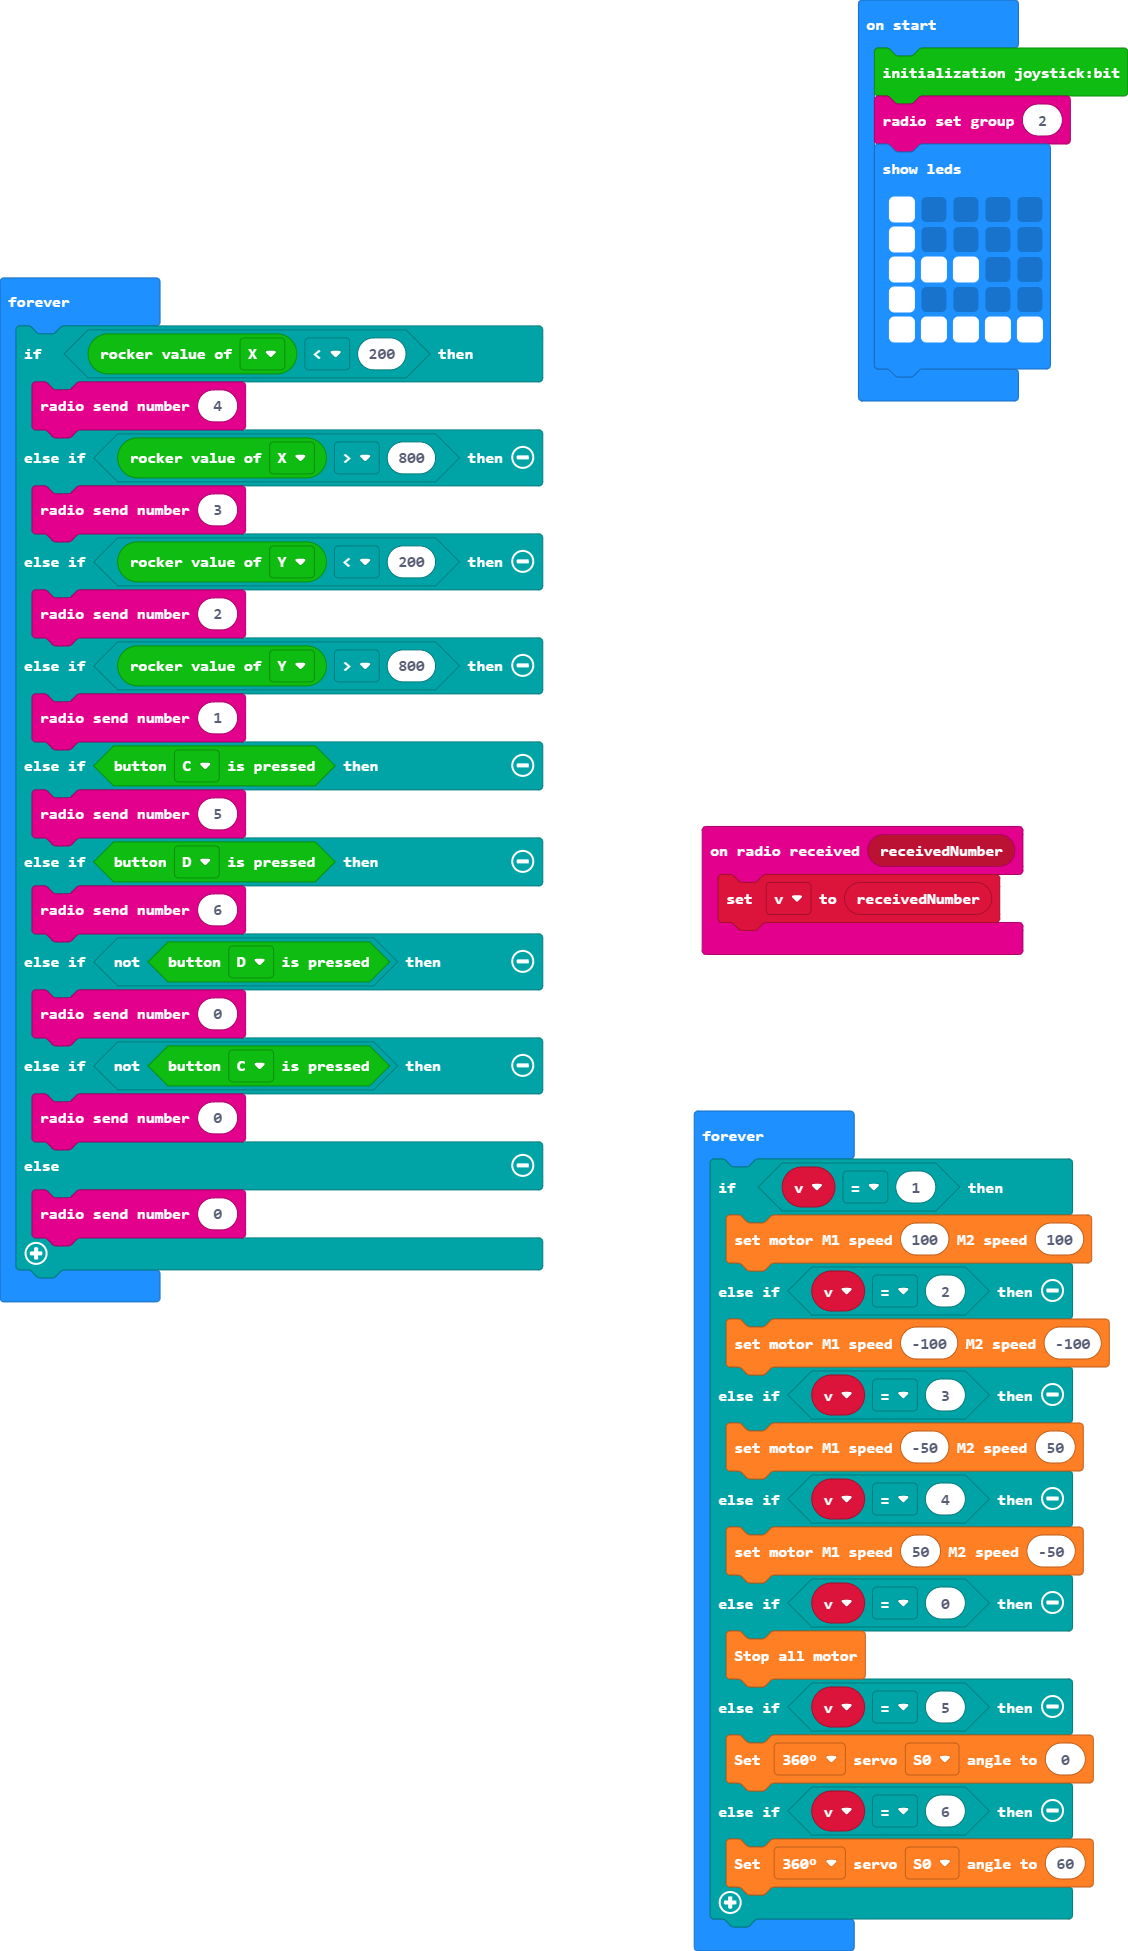
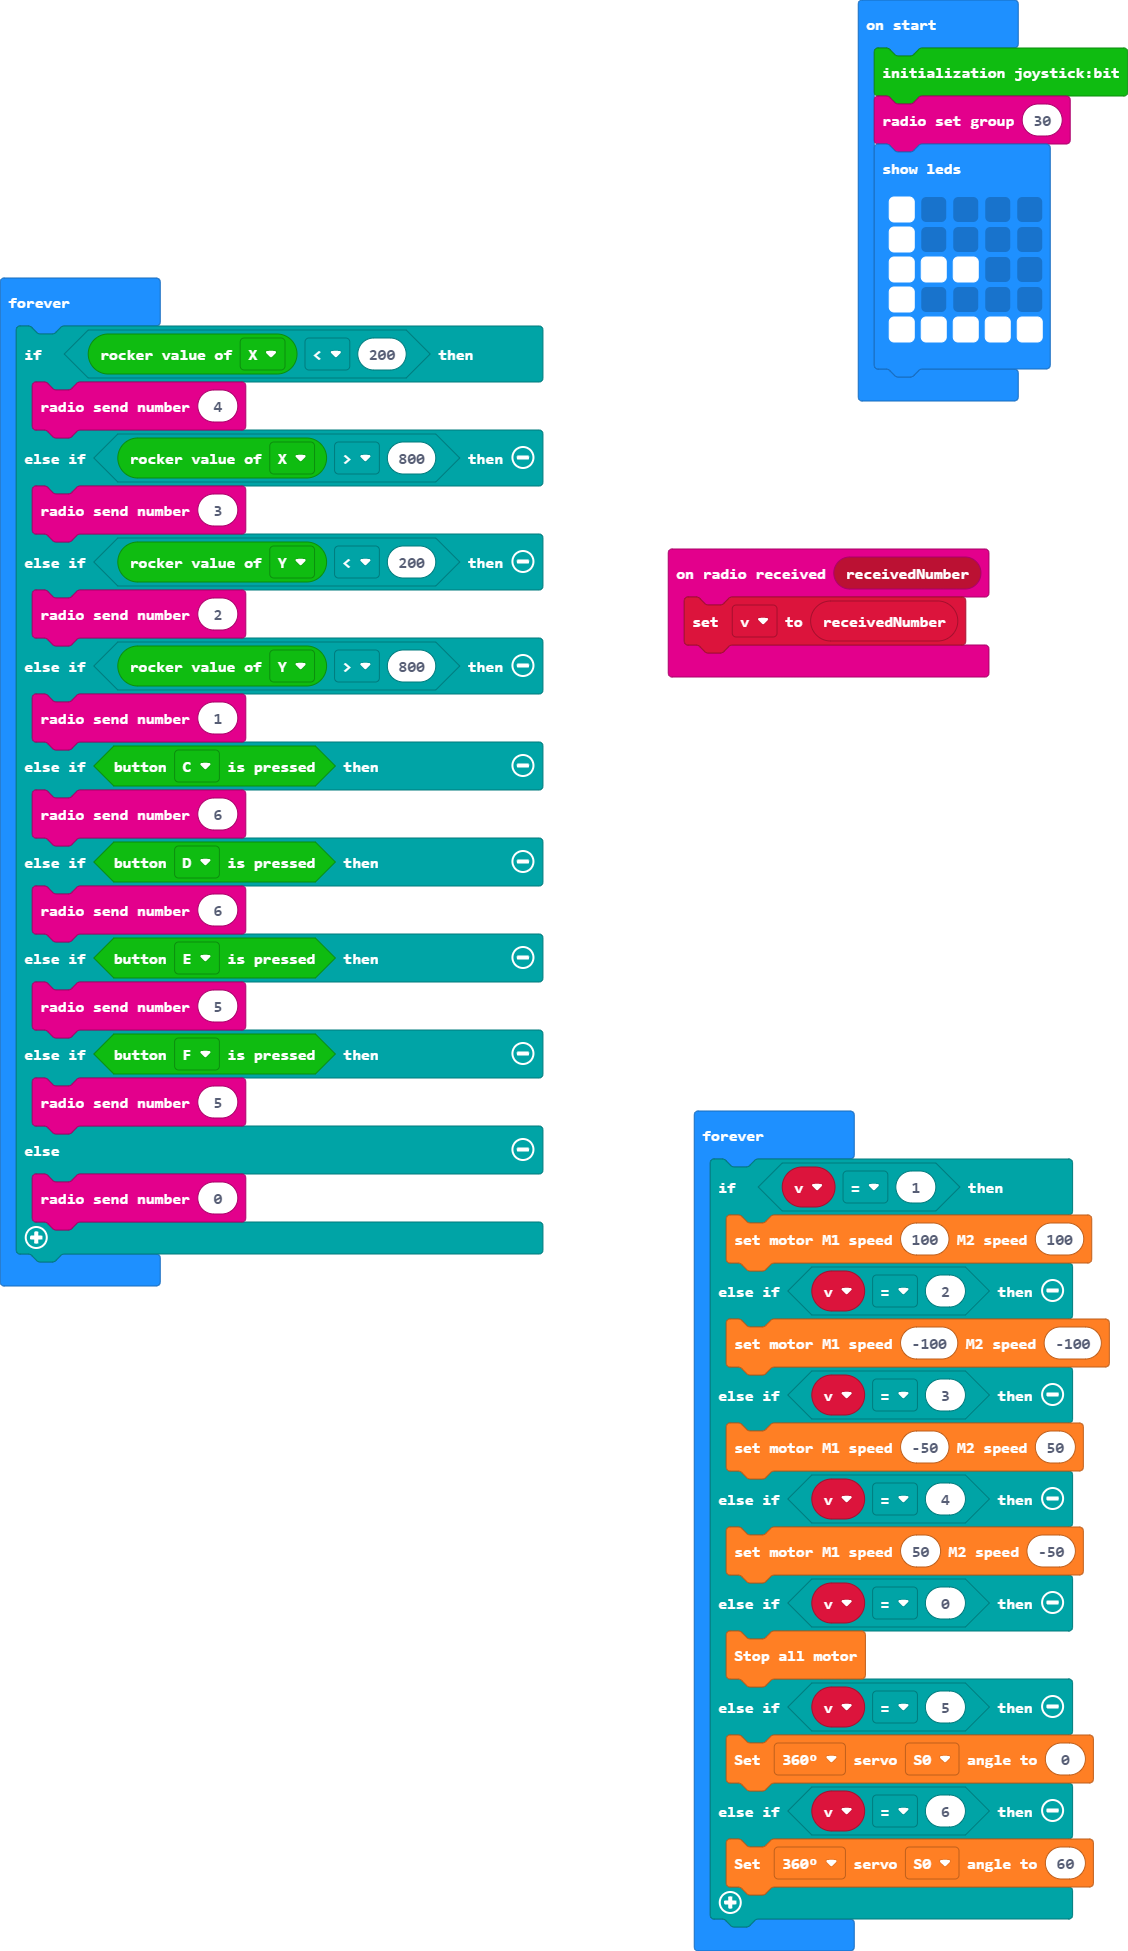
Update main.blocks, main.ts

diff --git a/main.ts b/main.ts
@@ -3,7 +3,7 @@ radio.onReceivedNumber(function (receivedNumber) {
 })
 let v = 0
 joystickbit.initJoystickBit()
-radio.setGroup(2)
+radio.setGroup(30)
 basic.showLeds(`
     # . . . .
     # . . . .
@@ -21,13 +21,13 @@ basic.forever(function () {
     } else if (joystickbit.getRockerValue(joystickbit.rockerType.Y) > 800) {
         radio.sendNumber(1)
     } else if (joystickbit.getButton(joystickbit.JoystickBitPin.P12)) {
-        radio.sendNumber(5)
+        radio.sendNumber(6)
     } else if (joystickbit.getButton(joystickbit.JoystickBitPin.P13)) {
         radio.sendNumber(6)
-    } else if (!(joystickbit.getButton(joystickbit.JoystickBitPin.P13))) {
-        radio.sendNumber(0)
-    } else if (!(joystickbit.getButton(joystickbit.JoystickBitPin.P12))) {
-        radio.sendNumber(0)
+    } else if (joystickbit.getButton(joystickbit.JoystickBitPin.P14)) {
+        radio.sendNumber(5)
+    } else if (joystickbit.getButton(joystickbit.JoystickBitPin.P15)) {
+        radio.sendNumber(5)
     } else {
         radio.sendNumber(0)
     }
